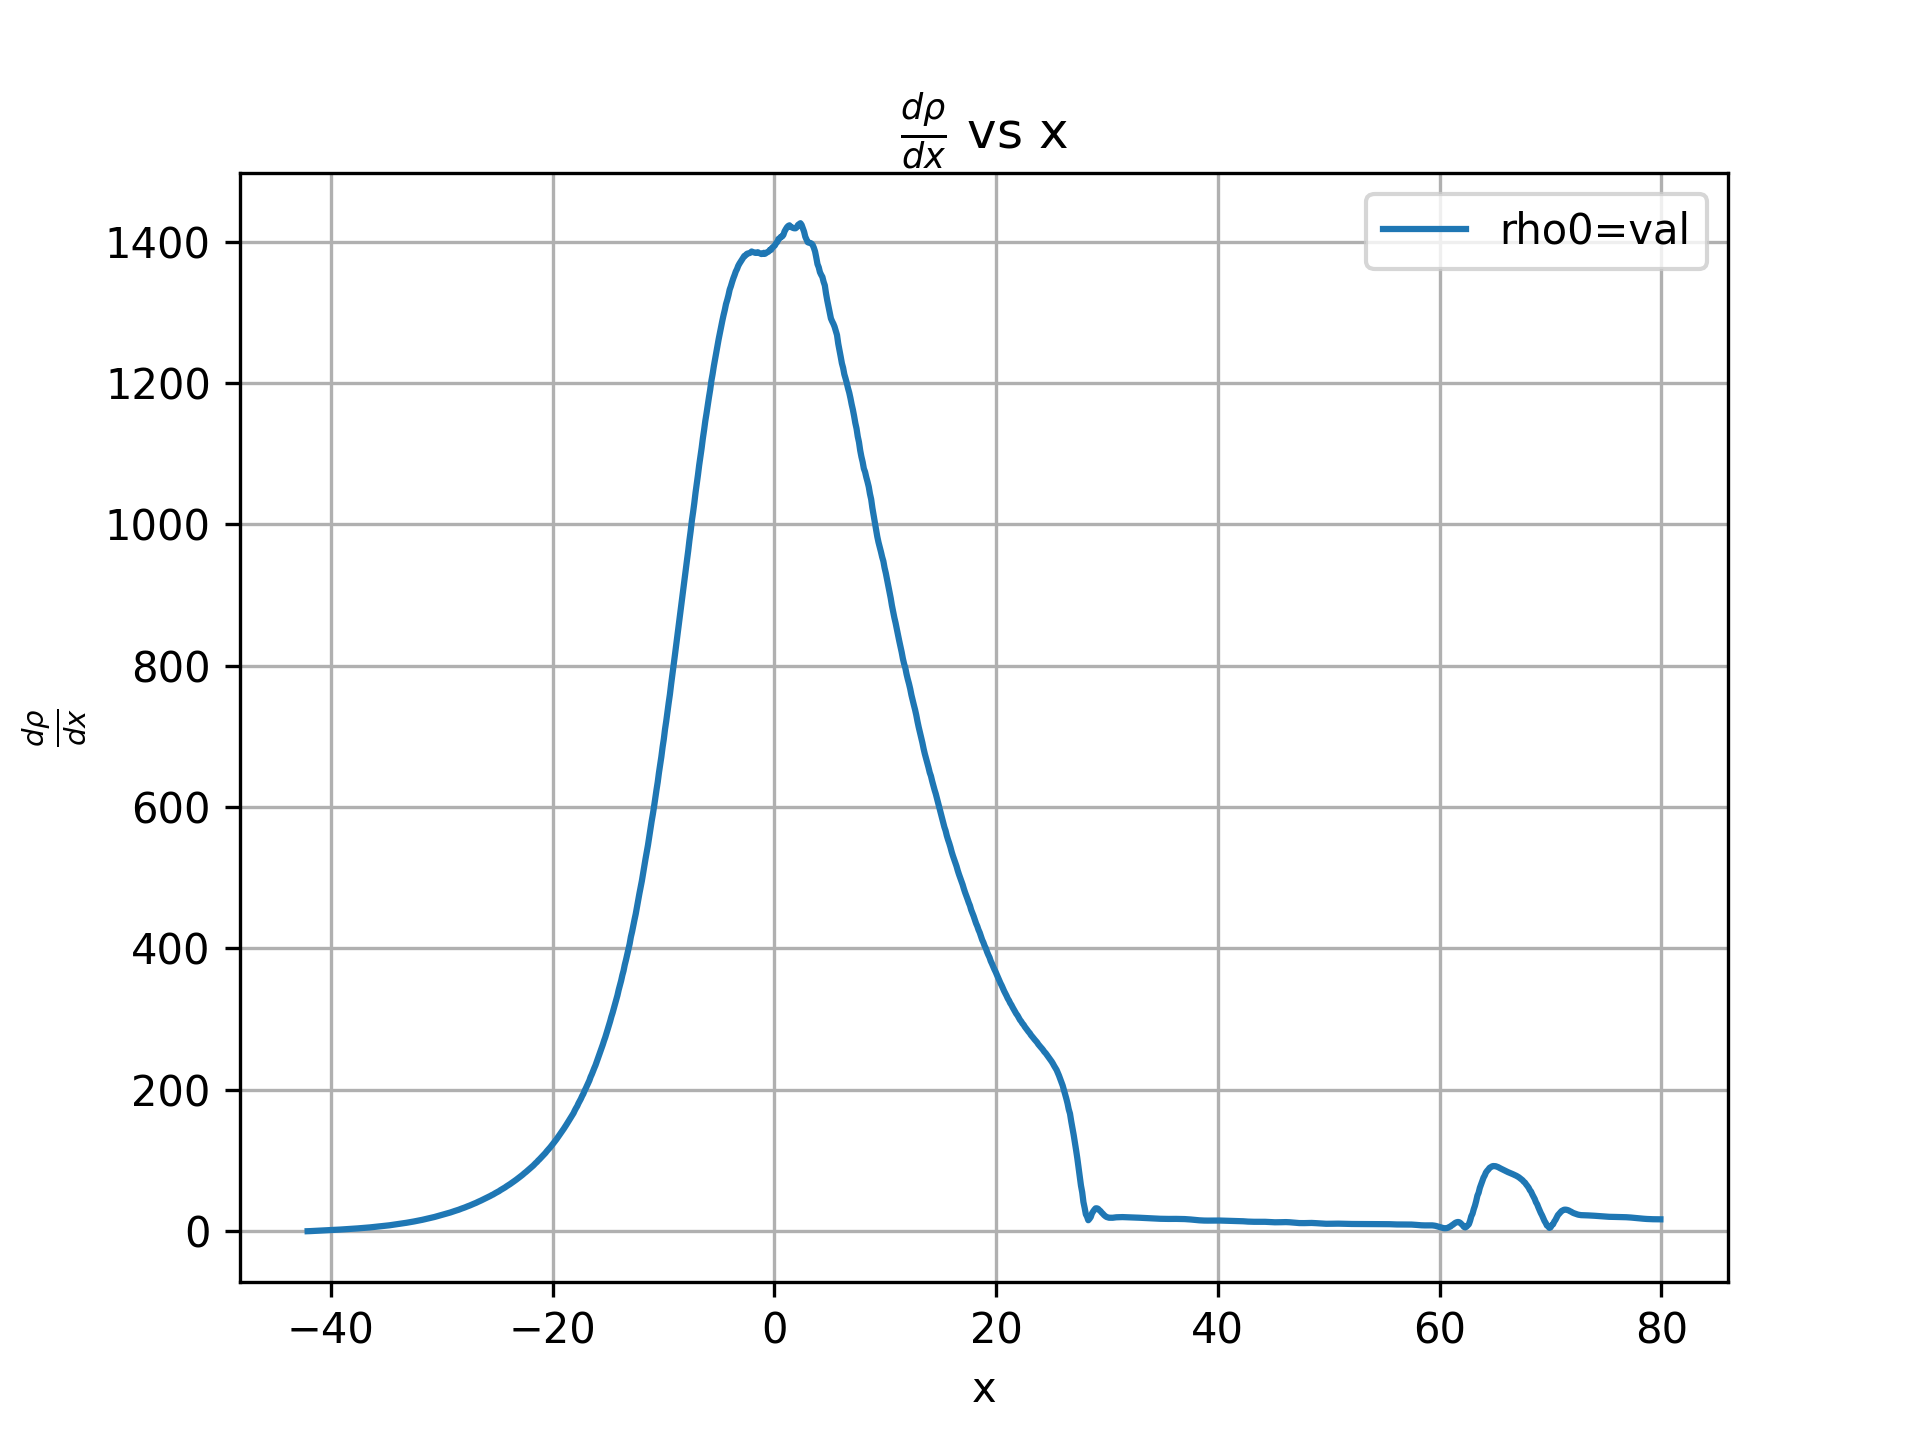
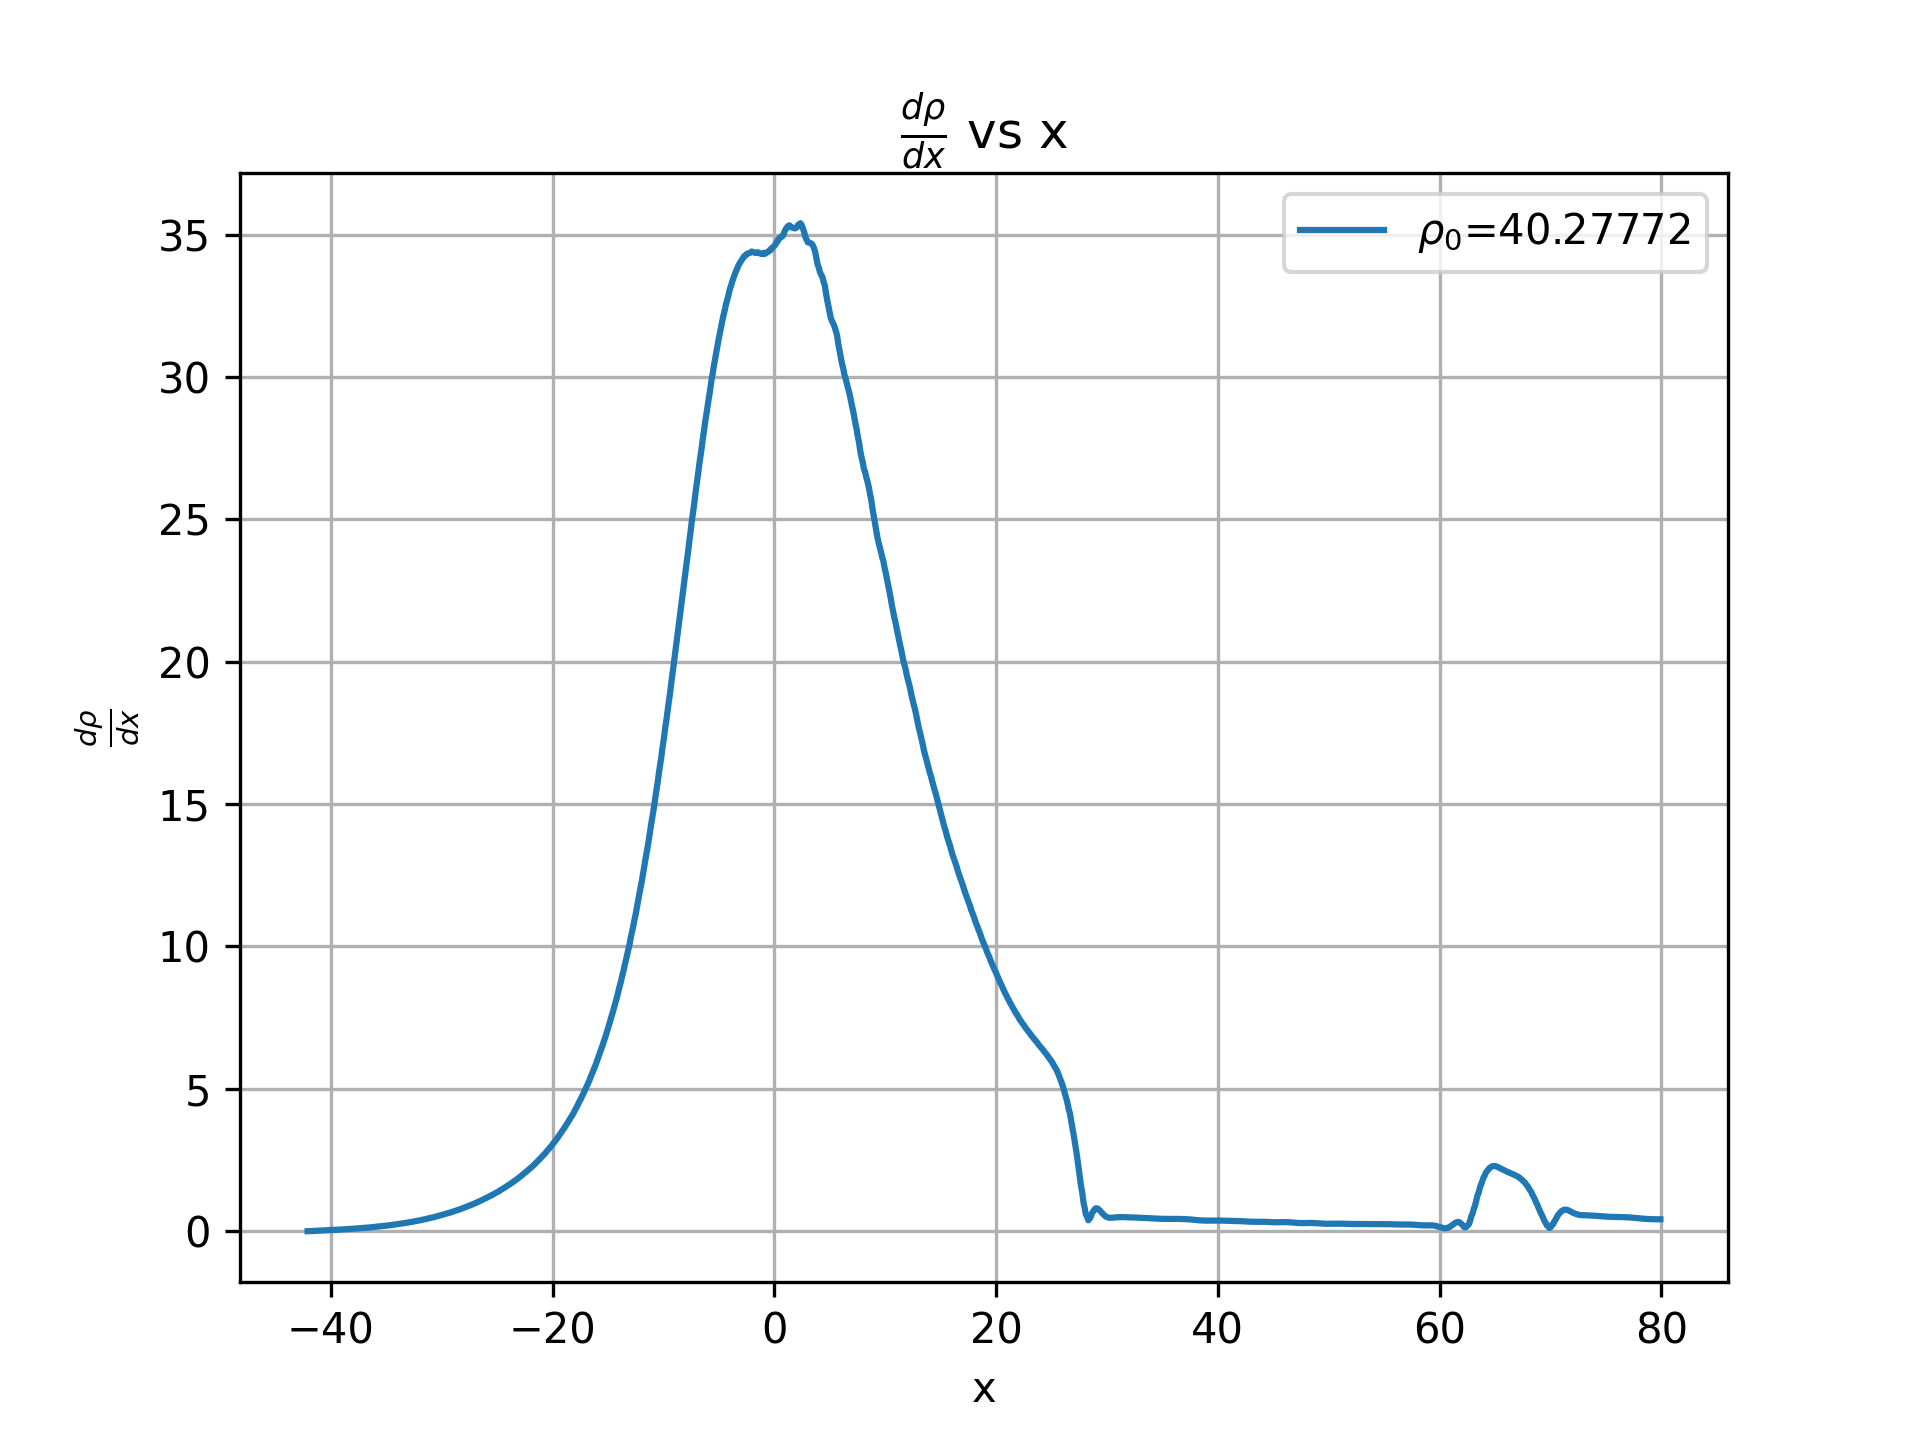
compressibility factor plots for report

diff --git a/d02_plot_compressibility.py b/d02_plot_compressibility.py
@@ -1,0 +1,57 @@
+import matplotlib.pyplot as plt
+
+rho0 = [40.2777, 75.0403, 139.006, 209.161, 91.6089, 59.8612, 41.4280]
+Z = [0.7925, 0.6357, 0.4983, 0.3571, 0.6430, 0.7404, 0.8166]
+labels = [1, 2, 3, 4, 5, 6, 7]
+
+fig, ax = plt.subplots()
+
+# Use a qualitative colour map
+cmap = plt.get_cmap("tab10")
+
+for i, (xi, yi, label) in enumerate(zip(rho0, Z, labels)):
+    colour = cmap(i)
+
+    # Thin vertical line
+    ax.vlines(
+        xi,
+        ymin=0,
+        ymax=yi,
+        linewidth=0.8,
+        color=colour,
+        alpha=0.8
+    )
+
+    # Point
+    ax.scatter(
+        xi,
+        yi,
+        s=35,
+        color=colour,
+        zorder=3,
+        label=f"Point {label}"
+    )
+
+    # Point label
+    ax.annotate(
+        label,
+        xy=(xi, yi),
+        xytext=(5, -8),
+        textcoords="offset points",
+        fontsize=8
+    )
+
+ax.set_xlabel(r"Density ($\rho_0$) [kg/m^3]")
+ax.set_ylabel(r"Compressibility Factor ($Z$)")
+ax.set_title("Compressibility Factor vs Density for Different Configurations")
+ax.grid(True, alpha=0.3)
+
+# Legend
+ax.legend(
+    title="Configurations",
+    loc="best",
+    fontsize=8
+)
+
+fig.savefig("compressibility_factor_image.png", dpi=300, bbox_inches="tight")
+plt.show()

diff --git a/d02_cfd_comparisons.py b/d02_cfd_comparisons.py
@@ -7,6 +7,7 @@ import matplotlib as mpl
 import cv2 as cv
 from scipy.optimize import curve_fit
 
+rho0 = [40.27772187279685, 75.04027767585774, 139.0060691158923, 209.16092353098253, 91.60892909471781, 59.861281984102675, 41.428026313530424]
 
 def tanh_func(x, a, b, c, d):
     return a * np.tanh(b * (x + c)) + d
@@ -154,7 +155,7 @@ plt.close(fig)
 # Density Gradient at y0
 # plt.plot(x_common, all_curves[i], label=f'rho0={rho0[i]}')
 # plt.scatter(new_x, line, s=10, label=f'rho0=Add')
-plt.plot(new_x, line, label=f'rho0=val')
+plt.plot(new_x, (np.array(line)/rho0[0]), label=fr'$\rho_0$={round(rho0[0], 5)}')
 plt.xlabel(r'x')
 plt.ylabel(r'$\frac{d\rho}{dx}$')
 plt.title(r'$\frac{d\rho}{dx}$ vs x')
